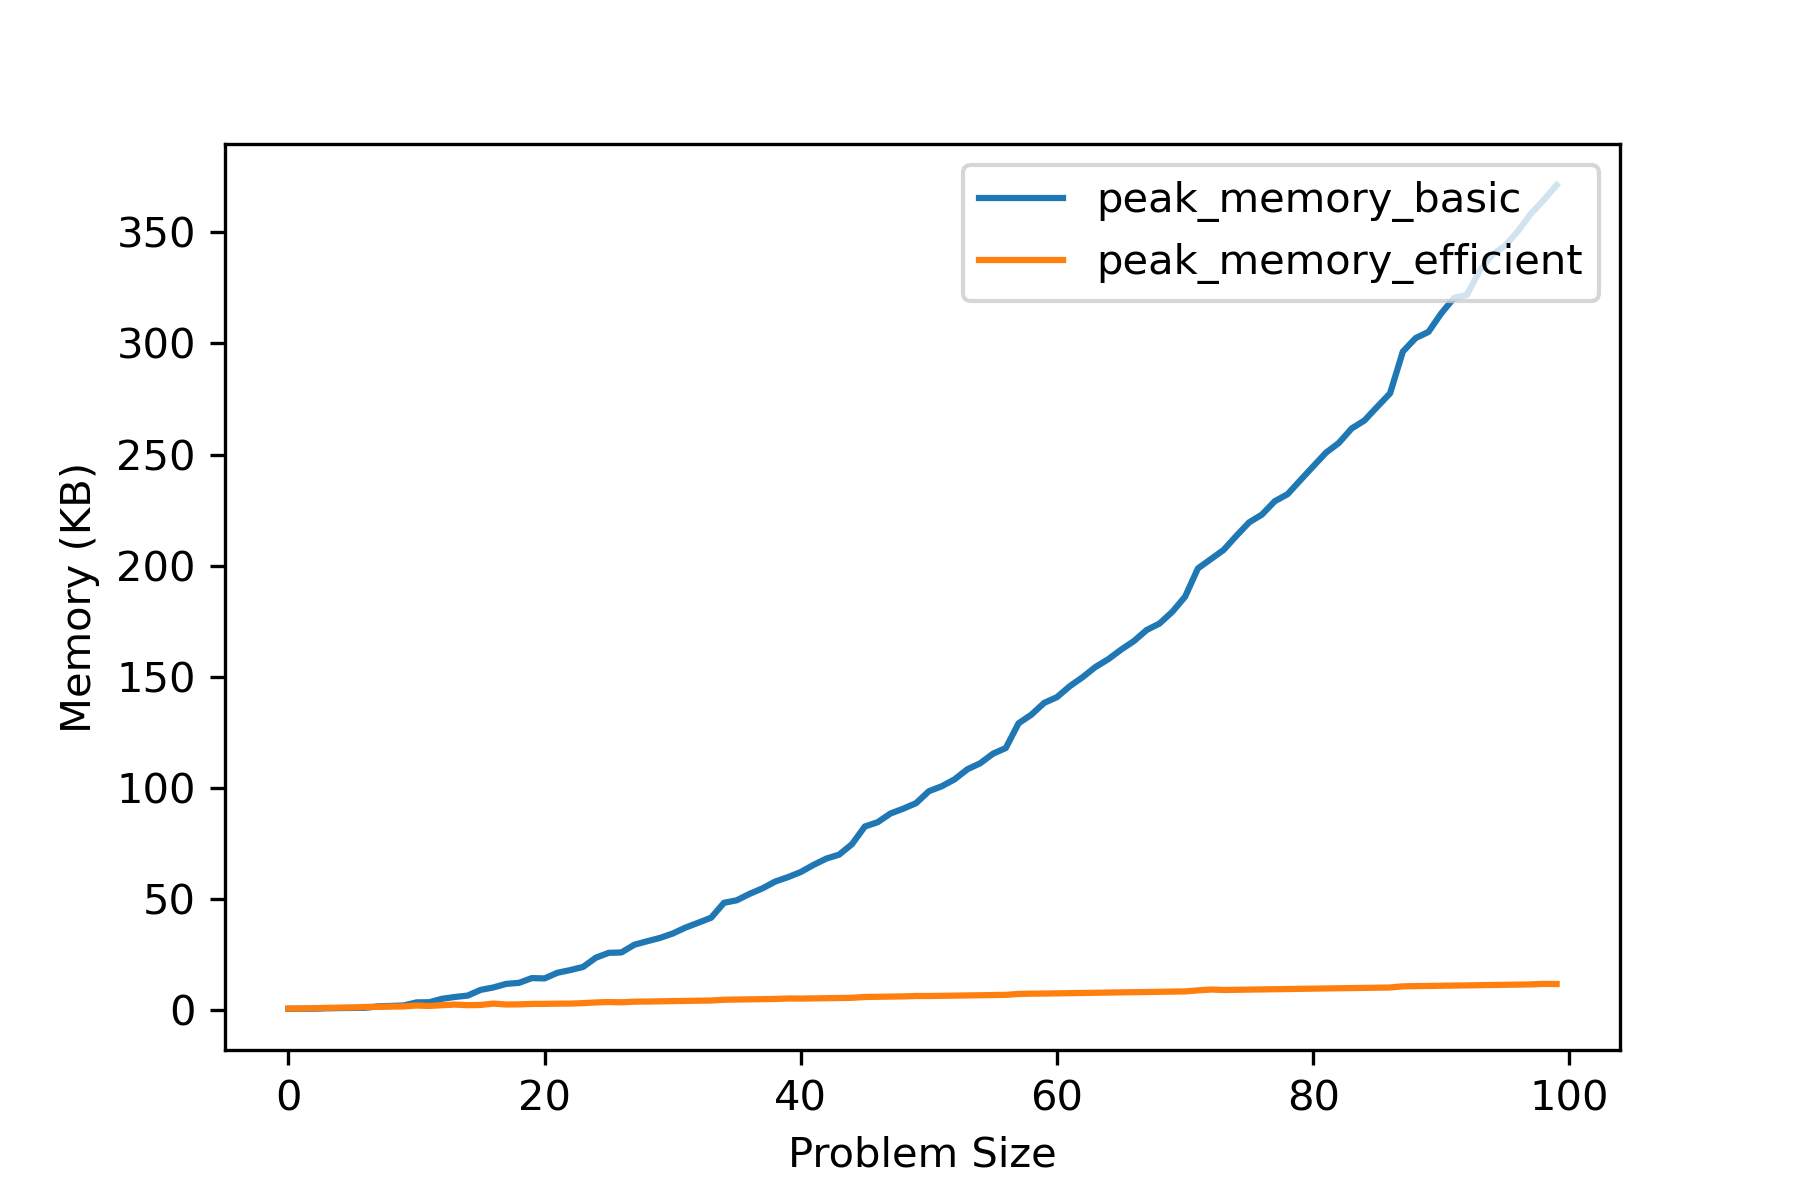
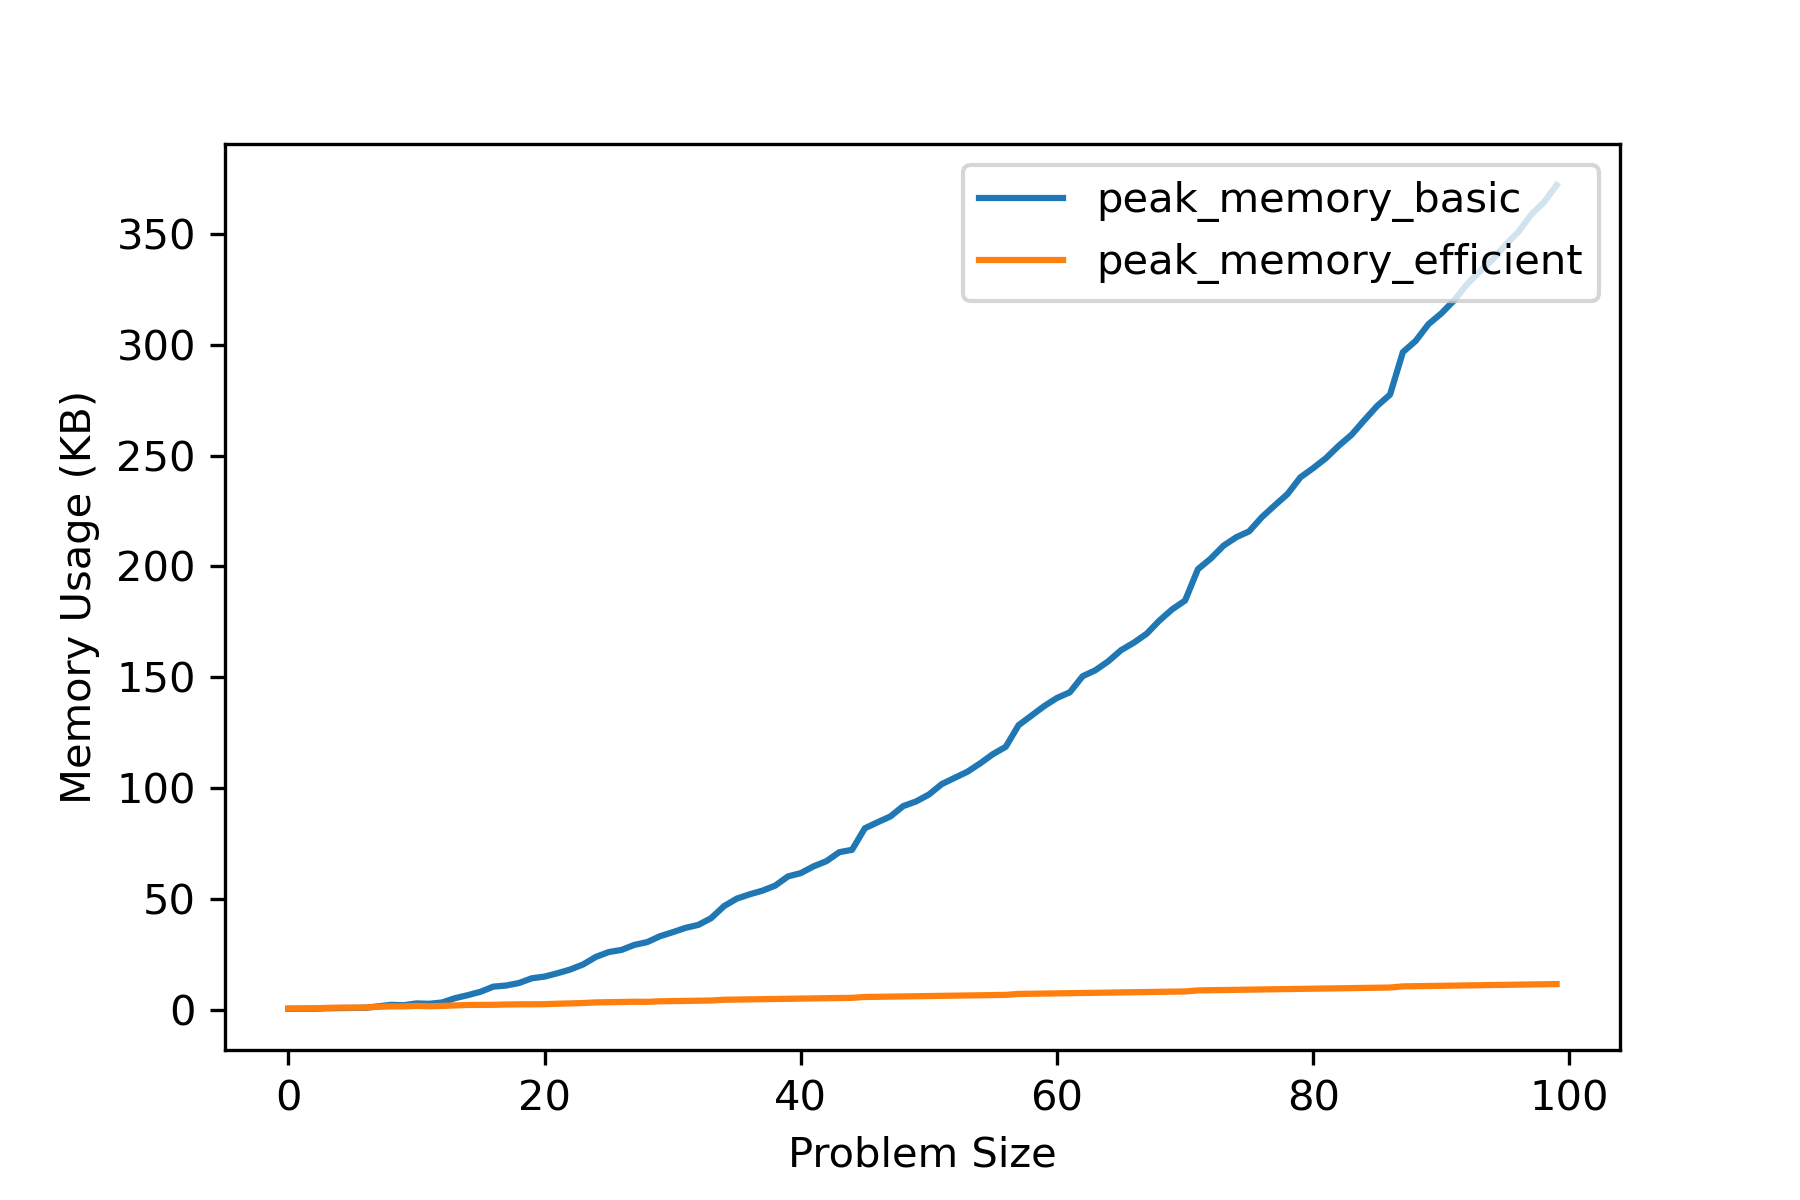
Update_Final

diff --git a/graphs.py b/graphs.py
@@ -87,7 +87,7 @@ def generate_graphs():
     plt.plot(memory_comp_df["peak_memory_efficient"], label = 'peak_memory_efficient')
     plt.legend(loc="upper right")
     plt.xlabel('Problem Size')
-    plt.ylabel('Memory (KB)')
+    plt.ylabel('Memory Usage (KB)')
     plt.savefig('MemoryPlot.png',dpi=300)
 
     plt.show()
@@ -96,7 +96,7 @@ def generate_graphs():
     plt.plot(time_comp_df["time_efficient"], label = 'time_efficient')
     plt.legend(loc="upper right")
     plt.xlabel('Problem Size')
-    plt.ylabel('Time (seconds)')
+    plt.ylabel('CPU Time (seconds)')
     plt.savefig('CPUPlot.png',dpi=300)
     plt.show()
     
